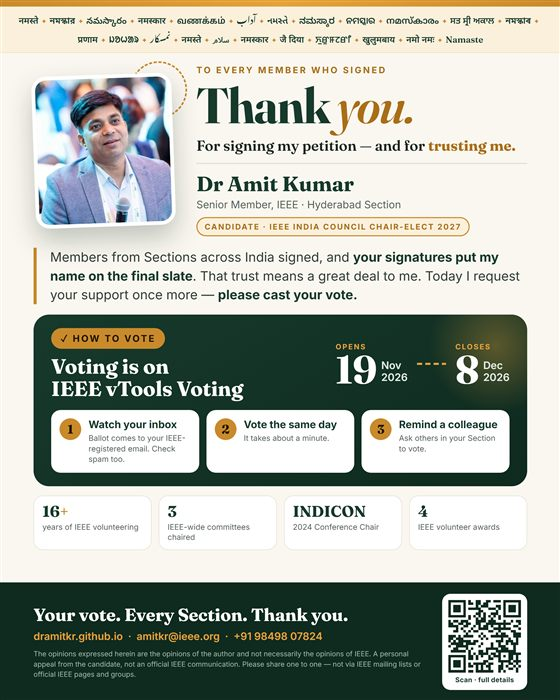
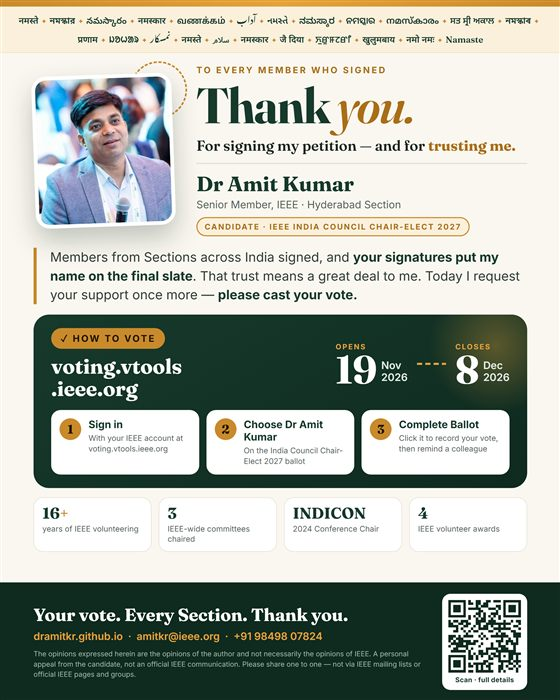
Step-by-step voting on voting.vtools.ieee.org; updated posters
- Six-step guide: sign in, open ballot, choose, Complete Ballot, confirm
- 'Vote on IEEE vTools' buttons linking to the official portal
- FAQ: vote without the email; 'not sure it counted'
- Posters updated with official URL and steps

Changed region(s): [[0.0607, 0.6, 0.9107, 0.78], [0.0911, 0.51, 0.4554, 0.57], [0.7589, 0.75, 0.8804, 0.78]]

diff --git a/index.html b/index.html
@@ -193,8 +193,11 @@ header.nav.scrolled{border-color:var(--line);box-shadow:0 4px 20px rgba(15,42,31
 .vz-date b{font:700 72px/.85 var(--serif);color:#fff}
 .vz-date span{font:600 16px/1.2 var(--sans);color:#dfeae3;padding-bottom:4px}
 .vz-line{flex:1;min-width:40px;height:3px;background:repeating-linear-gradient(90deg,#e3a33b 0 10px,transparent 10px 18px);border-radius:2px}
-.vz-dates .btn{margin-left:auto}
-.vz-steps{list-style:none;margin:0;padding:0;display:grid;grid-template-columns:repeat(3,1fr);gap:20px}
+.vz-dates .btn#cal{margin-left:auto}
+.vz-steps{list-style:none;margin:0;padding:0;display:grid;grid-template-columns:repeat(3,1fr);gap:18px}
+.vz-step a{color:var(--green-700);font-weight:600}
+.vz-dates .vz-go{margin-left:0;background:#fff;color:var(--green-800)}
+.vz-dates .vz-go:hover{background:var(--green-100)}
 .vz-step{background:#fff;color:var(--ink);border-radius:20px;padding:28px;position:relative;box-shadow:0 20px 40px rgba(0,0,0,.2);transition:transform .25s}
 .vz-step:hover{transform:translateY(-4px)}
 .vz-num{width:54px;height:54px;border-radius:50%;background:var(--amber);color:#1b1305;display:grid;place-items:center;font:700 28px var(--serif);margin-bottom:16px;box-shadow:0 0 0 6px var(--amber-100)}
@@ -202,6 +205,7 @@ header.nav.scrolled{border-color:var(--line);box-shadow:0 4px 20px rgba(15,42,31
 .vz-step h3{font:700 21px var(--sans);color:var(--green-800);margin:0 0 6px}
 .vz-step p{margin:0;color:var(--muted)}
 .votezone .notice{background:rgba(0,0,0,.22);border:1px solid rgba(255,255,255,.12)}
+@media (max-width:980px){.vz-steps{grid-template-columns:repeat(2,1fr)}}
 @media (max-width:820px){
   .votezone{padding:60px 0}
   .vz-steps{grid-template-columns:1fr}
@@ -375,7 +379,7 @@ footer{background:var(--green-900);color:#b8cdbf;padding:56px 0 28px;margin-top:
 }
 .sr{position:absolute;width:1px;height:1px;overflow:hidden;clip:rect(0 0 0 0)}
 </style>
-<script type="application/ld+json">{"@context":"https://schema.org","@graph":[{"@type":"WebSite","@id":"https://dramitkr.github.io/#website","url":"https://dramitkr.github.io/","name":"Dr Amit Kumar","description":"Personal website of Dr Amit Kumar","inLanguage":"en-IN","publisher":{"@id":"https://dramitkr.github.io/#person"}},{"@type":"ProfilePage","@id":"https://dramitkr.github.io/#webpage","url":"https://dramitkr.github.io/","name":"Dr Amit Kumar | Candidate, IEEE India Council Chair-Elect 2027","description":"Personal website of Dr Amit Kumar, Senior Member IEEE, Hyderabad — candidate for IEEE India Council Chair-Elect 2027. Record, priorities and how to vote.","isPartOf":{"@id":"https://dramitkr.github.io/#website"},"about":{"@id":"https://dramitkr.github.io/#person"},"mainEntity":{"@id":"https://dramitkr.github.io/#person"},"primaryImageOfPage":{"@id":"https://dramitkr.github.io/#photo"},"datePublished":"2026-11-17","dateModified":"2026-11-17","inLanguage":"en-IN"},{"@type":"ImageObject","@id":"https://dramitkr.github.io/#photo","url":"https://dramitkr.github.io/assets/amit-kumar.jpg","contentUrl":"https://dramitkr.github.io/assets/amit-kumar.jpg","width":900,"height":977,"caption":"Dr Amit Kumar"},{"@type":"Person","@id":"https://dramitkr.github.io/#person","name":"Dr Amit Kumar","alternateName":["Amit Kumar","Dr. Amit Kumar"],"honorificPrefix":"Dr","url":"https://dramitkr.github.io/","image":{"@id":"https://dramitkr.github.io/#photo"},"description":"Forensic scientist, entrepreneur and engineer from Hyderabad; IEEE Senior Member and volunteer since 2010; candidate for IEEE India Council Chair-Elect 2027.","jobTitle":"Director","worksFor":{"@type":"Organization","name":"BioAxis DNA Research Centre (P) Ltd","address":{"@type":"PostalAddress","addressLocality":"Hyderabad","addressRegion":"Telangana","addressCountry":"IN"}},"knowsAbout":["DNA forensics","Bioinformatics","Genetic predisposition studies","Conference organization","Technical program integrity","Volunteer leadership"],"memberOf":{"@type":"OrganizationRole","roleName":"Senior Member","memberOf":{"@type":"Organization","name":"IEEE","url":"https://www.ieee.org/"}},"award":["IEEE MGA Leadership Award (2024)","IEEE Region 10 Outstanding Volunteer (2022)","IEEE MGA Achievement Award (2020)","IEEE India Council Outstanding Volunteer (2020)"],"email":"mailto:amitkr@ieee.org","telephone":"+91-98498-07824","address":{"@type":"PostalAddress","addressLocality":"Hyderabad","addressRegion":"Telangana","addressCountry":"IN"},"sameAs":["https://www.linkedin.com/in/dramitkumar/","https://www.facebook.com/dramitkumaar"]},{"@type":"FAQPage","@id":"https://dramitkr.github.io/#voting-help","isPartOf":{"@id":"https://dramitkr.github.io/#webpage"},"mainEntity":[{"@type":"Question","name":"When is the voting?","acceptedAnswer":{"@type":"Answer","text":"Voting for IEEE India Council Chair-Elect 2027 runs from 19 November to 8 December 2026. Check the ballot email for the exact closing time."}},{"@type":"Question","name":"How will I receive my ballot?","acceptedAnswer":{"@type":"Answer","text":"By email from the IEEE vTools Voting platform, sent to the email address registered with your IEEE membership. Open the link in that email and follow the steps."}},{"@type":"Question","name":"I can’t find my ballot. What should I do?","acceptedAnswer":{"@type":"Answer","text":"Check spam, junk and promotions folders; search your inbox for vTools or IEEE India Council; make sure the email in your IEEE account at ieee.org is current; if it still has not arrived, contact the IEEE India Council through ieeeindiacouncil.org."}},{"@type":"Question","name":"Who is eligible to vote?","acceptedAnswer":{"@type":"Answer","text":"Eligibility is set by the IEEE India Council election rules and depends on membership grade and Section. Eligible members receive the ballot email automatically. For eligibility questions, contact the IEEE India Council."}},{"@type":"Question","name":"Is my vote private?","acceptedAnswer":{"@type":"Answer","text":"You vote directly on IEEE’s own platform. Candidates do not see how any individual member voted."}},{"@type":"Question","name":"Does this website collect my details or ask for my IEEE login?","acceptedAnswer":{"@type":"Answer","text":"No. This site has no forms, sets no cookies and never asks for IEEE credentials."}},{"@type":"Question","name":"How can I help?","acceptedAnswer":{"@type":"Answer","text":"Vote as soon as your ballot arrives and remind colleagues personally. Do not use IEEE mailing lists or official IEEE pages and groups to promote a candidate."}}]}]}</script>
+<script type="application/ld+json">{"@context":"https://schema.org","@graph":[{"@type":"WebSite","@id":"https://dramitkr.github.io/#website","url":"https://dramitkr.github.io/","name":"Dr Amit Kumar","description":"Personal website of Dr Amit Kumar","inLanguage":"en-IN","publisher":{"@id":"https://dramitkr.github.io/#person"}},{"@type":"ProfilePage","@id":"https://dramitkr.github.io/#webpage","url":"https://dramitkr.github.io/","name":"Dr Amit Kumar | Candidate, IEEE India Council Chair-Elect 2027","description":"Personal website of Dr Amit Kumar, Senior Member IEEE, Hyderabad — candidate for IEEE India Council Chair-Elect 2027. Record, priorities and how to vote.","isPartOf":{"@id":"https://dramitkr.github.io/#website"},"about":{"@id":"https://dramitkr.github.io/#person"},"mainEntity":{"@id":"https://dramitkr.github.io/#person"},"primaryImageOfPage":{"@id":"https://dramitkr.github.io/#photo"},"datePublished":"2026-11-17","dateModified":"2026-11-17","inLanguage":"en-IN"},{"@type":"ImageObject","@id":"https://dramitkr.github.io/#photo","url":"https://dramitkr.github.io/assets/amit-kumar.jpg","contentUrl":"https://dramitkr.github.io/assets/amit-kumar.jpg","width":900,"height":977,"caption":"Dr Amit Kumar"},{"@type":"Person","@id":"https://dramitkr.github.io/#person","name":"Dr Amit Kumar","alternateName":["Amit Kumar","Dr. Amit Kumar"],"honorificPrefix":"Dr","url":"https://dramitkr.github.io/","image":{"@id":"https://dramitkr.github.io/#photo"},"description":"Forensic scientist, entrepreneur and engineer from Hyderabad; IEEE Senior Member and volunteer since 2010; candidate for IEEE India Council Chair-Elect 2027.","jobTitle":"Director","worksFor":{"@type":"Organization","name":"BioAxis DNA Research Centre (P) Ltd","address":{"@type":"PostalAddress","addressLocality":"Hyderabad","addressRegion":"Telangana","addressCountry":"IN"}},"knowsAbout":["DNA forensics","Bioinformatics","Genetic predisposition studies","Conference organization","Technical program integrity","Volunteer leadership"],"memberOf":{"@type":"OrganizationRole","roleName":"Senior Member","memberOf":{"@type":"Organization","name":"IEEE","url":"https://www.ieee.org/"}},"award":["IEEE MGA Leadership Award (2024)","IEEE Region 10 Outstanding Volunteer (2022)","IEEE MGA Achievement Award (2020)","IEEE India Council Outstanding Volunteer (2020)"],"email":"mailto:amitkr@ieee.org","telephone":"+91-98498-07824","address":{"@type":"PostalAddress","addressLocality":"Hyderabad","addressRegion":"Telangana","addressCountry":"IN"},"sameAs":["https://www.linkedin.com/in/dramitkumar/","https://www.facebook.com/dramitkumaar"]},{"@type":"FAQPage","@id":"https://dramitkr.github.io/#voting-help","isPartOf":{"@id":"https://dramitkr.github.io/#webpage"},"mainEntity":[{"@type":"Question","name":"When is the voting?","acceptedAnswer":{"@type":"Answer","text":"Voting for IEEE India Council Chair-Elect 2027 runs from 19 November to 8 December 2026. Check the ballot email for the exact closing time."}},{"@type":"Question","name":"How do I vote?","acceptedAnswer":{"@type":"Answer","text":"Go to voting.vtools.ieee.org, sign in with your IEEE account, open the IEEE India Council Chair-Elect 2027 ballot, make your choice and click Complete Ballot."}},{"@type":"Question","name":"I can’t find my ballot. What should I do?","acceptedAnswer":{"@type":"Answer","text":"Check spam, junk and promotions folders; search your inbox for vTools or IEEE India Council; make sure the email in your IEEE account at ieee.org is current; if it still has not arrived, contact the IEEE India Council through ieeeindiacouncil.org."}},{"@type":"Question","name":"I voted but I’m not sure it counted.","acceptedAnswer":{"@type":"Answer","text":"You must click Complete Ballot on the Confirm Vote page. If you see Vote Completed, your vote is recorded."}},{"@type":"Question","name":"Who is eligible to vote?","acceptedAnswer":{"@type":"Answer","text":"Eligibility is set by the IEEE India Council election rules and depends on membership grade and Section. Eligible members receive the ballot email automatically. For eligibility questions, contact the IEEE India Council."}},{"@type":"Question","name":"Is my vote private?","acceptedAnswer":{"@type":"Answer","text":"You vote directly on IEEE’s own platform. Candidates do not see how any individual member voted."}},{"@type":"Question","name":"Does this website collect my details or ask for my IEEE login?","acceptedAnswer":{"@type":"Answer","text":"No. This site has no forms, sets no cookies and never asks for IEEE credentials."}},{"@type":"Question","name":"How can I help?","acceptedAnswer":{"@type":"Answer","text":"Vote as soon as your ballot arrives and remind colleagues personally. Do not use IEEE mailing lists or official IEEE pages and groups to promote a candidate."}}]}]}</script>
 <noscript><style>.reveal{opacity:1!important;transform:none!important}</style></noscript>
 </head>
 <body>
@@ -414,9 +418,9 @@ footer{background:var(--green-900);color:#b8cdbf;padding:56px 0 28px;margin-top:
       <a class="herovote" href="#vote" aria-label="How to vote: voting runs 19 November to 8 December 2026 on IEEE vTools Voting">
         <span class="hv-top"><span class="vstatus-in" id="vstatus" role="status"><span class="vdot" aria-hidden="true"></span><span><b id="vs-title">Voting: 19 Nov – 8 Dec 2026</b><small id="vs-sub">On the IEEE vTools Voting platform</small></span></span><span class="hv-tag">How to vote →</span></span>
         <span class="hv-steps" aria-hidden="true">
-          <span><i>1</i>Watch your inbox for the IEEE vTools ballot</span>
-          <span><i>2</i>Vote the same day</span>
-          <span><i>3</i>Remind a colleague</span>
+          <span><i>1</i>Sign in at voting.vtools.ieee.org</span>
+          <span><i>2</i>Choose Dr Amit Kumar</span>
+          <span><i>3</i>Click “Complete Ballot”</span>
         </span>
       </a>
       <p class="lead">From Hyderabad Section webmaster to chairing IEEE-wide conference integrity committees. Now on the final slate, thanks to you.</p>
@@ -424,7 +428,7 @@ footer{background:var(--green-900);color:#b8cdbf;padding:56px 0 28px;margin-top:
         <a class="btn btn-amber btn-big" href="#vote">
           <svg viewBox="0 0 24 24" fill="none" stroke="currentColor" stroke-width="2" stroke-linecap="round" stroke-linejoin="round" aria-hidden="true"><path d="M9 11l3 3L22 4"/><path d="M21 12v7a2 2 0 0 1-2 2H5a2 2 0 0 1-2-2V5a2 2 0 0 1 2-2h11"/></svg>
           How to vote</a>
-        <a class="btn btn-ghost" href="#priorities">See my priorities</a>
+        <a class="btn btn-primary" href="https://voting.vtools.ieee.org/" target="_blank" rel="noopener"><svg width="16" height="16" viewBox="0 0 24 24" fill="none" stroke="currentColor" stroke-width="2.2" stroke-linecap="round" stroke-linejoin="round" aria-hidden="true"><path d="M18 13v6a2 2 0 0 1-2 2H5a2 2 0 0 1-2-2V8a2 2 0 0 1 2-2h6"/><path d="M15 3h6v6"/><path d="M10 14L21 3"/></svg>Vote on IEEE vTools</a>
       </div>
     </div>
     <div class="portrait">
@@ -453,8 +457,8 @@ footer{background:var(--green-900);color:#b8cdbf;padding:56px 0 28px;margin-top:
     <div class="vz-head reveal">
       <div>
         <span class="vz-kicker"><svg width="16" height="16" viewBox="0 0 24 24" fill="none" stroke="currentColor" stroke-width="2.2" stroke-linecap="round" stroke-linejoin="round" aria-hidden="true"><path d="M9 11l3 3L22 4"/><path d="M21 12v7a2 2 0 0 1-2 2H5a2 2 0 0 1-2-2V5a2 2 0 0 1 2-2h11"/></svg>How to vote</span>
-        <h2 id="vote-h">Your vote, in three simple steps.</h2>
-        <p>The IEEE India Council Chair-Elect 2027 election is held on the <strong>IEEE vTools Voting</strong> platform. It takes about a minute.</p>
+        <h2 id="vote-h">How to vote, step by step.</h2>
+        <p>The IEEE India Council Chair-Elect 2027 election is held on IEEE’s official <strong>vTools Voting</strong> platform, <a href="https://voting.vtools.ieee.org/" target="_blank" rel="noopener" style="color:#f1c47a">voting.vtools.ieee.org</a>. It takes about two minutes.</p>
       </div>
       <div class="vz-live" id="vz-live" aria-hidden="true"><span class="vdot"></span><b id="vz-title">Voting: 19 Nov – 8 Dec 2026</b><small id="vz-sub">On IEEE vTools Voting</small></div>
     </div>
@@ -463,30 +467,43 @@ footer{background:var(--green-900);color:#b8cdbf;padding:56px 0 28px;margin-top:
       <div class="vz-line" aria-hidden="true"></div>
       <div class="vz-date"><small>Voting closes</small><b>8</b><span>Dec<br>2026</span></div>
       <a class="btn btn-amber" id="cal" href="#" target="_blank" rel="noopener"><svg width="16" height="16" viewBox="0 0 24 24" fill="none" stroke="currentColor" stroke-width="2.2" stroke-linecap="round" stroke-linejoin="round" aria-hidden="true"><path d="M8 2v4M16 2v4M3 10h18"/><path d="M5 4h14a2 2 0 0 1 2 2v14a2 2 0 0 1-2 2H5a2 2 0 0 1-2-2V6a2 2 0 0 1 2-2z"/></svg>Add a reminder to my calendar</a>
+      <a class="btn btn-primary vz-go" href="https://voting.vtools.ieee.org/" target="_blank" rel="noopener"><svg width="16" height="16" viewBox="0 0 24 24" fill="none" stroke="currentColor" stroke-width="2.2" stroke-linecap="round" stroke-linejoin="round" aria-hidden="true"><path d="M18 13v6a2 2 0 0 1-2 2H5a2 2 0 0 1-2-2V8a2 2 0 0 1 2-2h6"/><path d="M15 3h6v6"/><path d="M10 14L21 3"/></svg>Open IEEE vTools Voting</a>
     </div>
     <ol class="vz-steps">
       <li class="vz-step reveal">
-        <div class="ico" aria-hidden="true"><svg width="24" height="24" viewBox="0 0 24 24" fill="none" stroke="currentColor" stroke-width="2" stroke-linecap="round"><rect x="2" y="4" width="20" height="16" rx="2"/><path d="M22 6l-10 7L2 6"/></svg></div>
         <div class="vz-num">1</div>
-        <h3>Watch your inbox</h3>
-        <p>From 19 November, your ballot arrives via IEEE vTools Voting at the email registered with your IEEE membership. Check spam and promotions too.</p>
+        <h3>Open the voting site</h3>
+        <p>Go to <a href="https://voting.vtools.ieee.org/" target="_blank" rel="noopener">voting.vtools.ieee.org</a>, or use the link in your ballot email from IEEE vTools Voting.</p>
       </li>
       <li class="vz-step reveal">
-        <div class="ico" aria-hidden="true"><svg width="24" height="24" viewBox="0 0 24 24" fill="none" stroke="currentColor" stroke-width="2" stroke-linecap="round"><path d="M9 11l3 3L22 4"/><path d="M21 12v7a2 2 0 0 1-2 2H5a2 2 0 0 1-2-2V5a2 2 0 0 1 2-2h11"/></svg></div>
         <div class="vz-num">2</div>
-        <h3>Vote straight away</h3>
-        <p>Open the ballot link and vote the same day. Ballots set aside for later tend not to be cast at all.</p>
+        <h3>Sign in</h3>
+        <p>Click <strong>Sign In</strong> and log in with your IEEE account email and password. Forgot it? Use <strong>Forgot password</strong> on the IEEE sign-in page.</p>
       </li>
       <li class="vz-step reveal">
-        <div class="ico" aria-hidden="true"><svg width="24" height="24" viewBox="0 0 24 24" fill="none" stroke="currentColor" stroke-width="2" stroke-linecap="round"><path d="M17 21v-2a4 4 0 0 0-4-4H5a4 4 0 0 0-4 4v2"/><circle cx="9" cy="7" r="4"/><path d="M23 21v-2a4 4 0 0 0-3-3.87M16 3.13a4 4 0 0 1 0 7.75"/></svg></div>
         <div class="vz-num">3</div>
-        <h3>Remind a colleague</h3>
-        <p>Turnout in Council elections is low. Please ask others in your Section to vote too. <a href="#share">Share this page →</a></p>
+        <h3>Open your ballot</h3>
+        <p>Under <strong>Ballots</strong>, find the <strong>IEEE India Council Chair-Elect 2027</strong> election and click <strong>Click Here To Vote</strong>.</p>
+      </li>
+      <li class="vz-step reveal">
+        <div class="vz-num">4</div>
+        <h3>Choose Dr Amit Kumar</h3>
+        <p>Tick <strong>Amit Kumar</strong> in the candidate list. You can view each candidate’s statement from the ballot.</p>
+      </li>
+      <li class="vz-step reveal">
+        <div class="vz-num">5</div>
+        <h3>Click “Complete Ballot”</h3>
+        <p>On the <strong>Confirm Vote</strong> page, click <strong>Complete Ballot</strong>. Your vote is <strong>not recorded until you do</strong>.</p>
+      </li>
+      <li class="vz-step reveal">
+        <div class="vz-num">6</div>
+        <h3>Check “Vote completed”</h3>
+        <p>You’ll see <strong>Vote Completed</strong>. Then please <a href="#share">remind one colleague</a> in your Section.</p>
       </li>
     </ol>
     <div class="notice reveal" role="note">
       <span class="tag">PLEASE NOTE</span>
-      <p style="margin:0">Voting is open <strong>19 November – 8 December 2026</strong> on the <strong>IEEE vTools Voting</strong> platform. Your ballot goes to <strong>the address registered with your IEEE membership</strong>; check the ballot email for the exact closing time. If that address has changed, kindly update it at <a href="https://www.ieee.org/" target="_blank" rel="noopener">ieee.org</a> so that your ballot reaches you. This site never asks for your IEEE credentials. Can’t find your ballot? <a href="#voting-help">See voting help</a>.</p>
+      <p style="margin:0">Voting is open <strong>19 November – 8 December 2026</strong> on the <strong>IEEE vTools Voting</strong> platform. Vote only at the official address <a href="https://voting.vtools.ieee.org/" target="_blank" rel="noopener">voting.vtools.ieee.org</a>. A ballot email is also sent to <strong>the address registered with your IEEE membership</strong>; check it for the exact closing time. If that address has changed, kindly update it at <a href="https://www.ieee.org/" target="_blank" rel="noopener">ieee.org</a> so that your ballot reaches you. This site never asks for your IEEE credentials. Can’t find your ballot? <a href="#voting-help">See voting help</a>.</p>
     </div>
   </div>
 </section>
@@ -501,8 +518,9 @@ footer{background:var(--green-900);color:#b8cdbf;padding:56px 0 28px;margin-top:
     </div>
     <div class="faq">
       <details class="reveal"><summary>When is the voting?</summary><div class="ans">Voting for IEEE India Council Chair-Elect 2027 runs from <strong>19 November to 8 December 2026</strong>. Check the ballot email for the exact closing time.</div></details>
-      <details class="reveal"><summary>How will I receive my ballot?</summary><div class="ans">By email from the <strong>IEEE vTools Voting</strong> platform, sent to the email address registered with your IEEE membership. Open the link in that email and follow the steps — it takes about a minute.</div></details>
-      <details class="reveal" open><summary>I can’t find my ballot. What should I do?</summary><div class="ans"><ol><li>Check your <strong>spam, junk and promotions</strong> folders.</li><li>Search your inbox for <strong>“vTools”</strong> or <strong>“IEEE India Council”</strong>.</li><li>Make sure the email address in your IEEE account is current — sign in at <a href="https://www.ieee.org/" target="_blank" rel="noopener">ieee.org</a> and check your account settings.</li><li>If it still hasn’t arrived, contact the IEEE India Council through its official website, <a href="https://ieeeindiacouncil.org/" target="_blank" rel="noopener">ieeeindiacouncil.org</a>.</li></ol></div></details>
+      <details class="reveal"><summary>How do I vote?</summary><div class="ans">Go to <a href="https://voting.vtools.ieee.org/" target="_blank" rel="noopener">voting.vtools.ieee.org</a>, sign in with your IEEE account, open the IEEE India Council Chair-Elect 2027 ballot, make your choice, and click <strong>Complete Ballot</strong>. You’ll also receive a ballot email from IEEE vTools Voting with a direct link. <a href="#vote">See the step-by-step guide</a>.</div></details>
+      <details class="reveal" open><summary>I can’t find my ballot. What should I do?</summary><div class="ans"><ol><li>You don’t need the email — sign in directly at <a href="https://voting.vtools.ieee.org/" target="_blank" rel="noopener">voting.vtools.ieee.org</a>; your ballot appears under <strong>Ballots</strong>.</li><li>Check your <strong>spam, junk and promotions</strong> folders.</li><li>Search your inbox for <strong>“vTools”</strong> or <strong>“IEEE India Council”</strong>.</li><li>Make sure the email address in your IEEE account is current — sign in at <a href="https://www.ieee.org/" target="_blank" rel="noopener">ieee.org</a> and check your account settings.</li><li>If it still hasn’t arrived, contact the IEEE India Council through its official website, <a href="https://ieeeindiacouncil.org/" target="_blank" rel="noopener">ieeeindiacouncil.org</a>.</li></ol></div></details>
+      <details class="reveal"><summary>I voted but I’m not sure it counted.</summary><div class="ans">After choosing, you must click <strong>Complete Ballot</strong> on the Confirm Vote page. If you see <strong>Vote Completed</strong>, your vote is recorded. If not, sign in again at <a href="https://voting.vtools.ieee.org/" target="_blank" rel="noopener">voting.vtools.ieee.org</a> and finish the ballot.</div></details>
       <details class="reveal"><summary>Who is eligible to vote?</summary><div class="ans">Eligibility is set by the IEEE India Council election rules and depends on your membership grade and Section. If you are eligible, the ballot email is sent to you automatically — you don’t need to register. For questions about eligibility, please contact the IEEE India Council.</div></details>
       <details class="reveal"><summary>Is my vote private?</summary><div class="ans">You vote directly on IEEE’s own platform. Candidates, including me, do not see how any individual member voted.</div></details>
       <details class="reveal"><summary>Does this website collect my details or ask for my IEEE login?</summary><div class="ans">No. This site has no forms, sets no cookies and never asks for your IEEE credentials. Only enter your IEEE login on official IEEE pages.</div></details>
@@ -830,7 +848,7 @@ footer{background:var(--green-900);color:#b8cdbf;padding:56px 0 28px;margin-top:
 
   // Share
   const url=location.href.split('#')[0];
-  const msg='Dr Amit Kumar is on the IEEE India Council Chair-Elect 2027 slate (nominated by petition). Voting runs 19 Nov – 8 Dec 2026 on IEEE vTools Voting; the ballot goes to your IEEE-registered email. Please vote when it arrives:';
+  const msg='Dr Amit Kumar is on the IEEE India Council Chair-Elect 2027 slate (nominated by petition). Voting runs 19 Nov – 8 Dec 2026 at voting.vtools.ieee.org (sign in with your IEEE account, then click Complete Ballot). Details:';
   $('#sh-wa').href='https://wa.me/?text='+encodeURIComponent(msg+' '+url);
   $('#sh-li').href='https://www.linkedin.com/sharing/share-offsite/?url='+encodeURIComponent(url);
   const disc='The opinions expressed herein are the opinions of the author and not necessarily the opinions of IEEE.';
